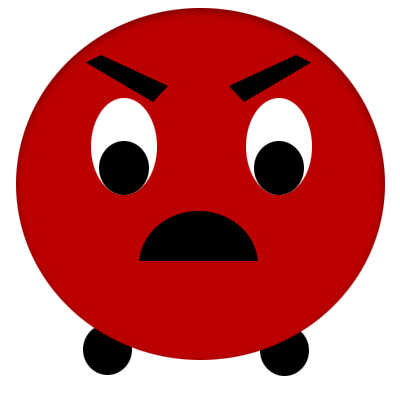
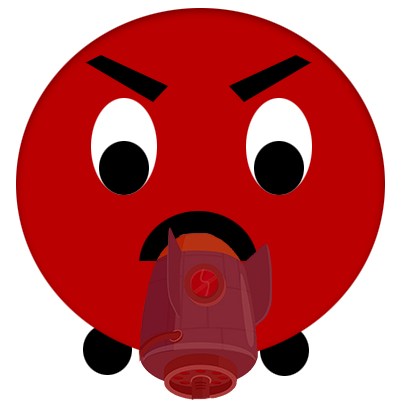
Aggiunta pistola enemy

Changed region(s): [[0.33, 0.57, 0.69, 1.0]]

diff --git a/src/project/igpe/classes/GraphicsGame.java b/src/project/igpe/classes/GraphicsGame.java
@@ -178,16 +178,16 @@ public class GraphicsGame extends StackPane{
 
 	}
 	public void dirPistol(int dir) {
-		if (Hero.getDirHero() == Hero.MOVE_LEFT)
+		if (dir == Hero.MOVE_LEFT)
 			canvas.getGraphicsContext2D().drawImage(GraphicHero.getImgPistol(), Hero.getX()-40, Hero.getY()-10, Hero.getSize()+20, Hero.getSize()+20);
-		if (Hero.getDirHero() == Hero.MOVE_RIGHT)
+		if (dir == Hero.MOVE_RIGHT)
 			canvas.getGraphicsContext2D().drawImage(GraphicHero.getImgPistol(), Hero.getX()+37, Hero.getY()-5, Hero.getSize()+20, Hero.getSize()+20);
-		if (Hero.getDirHero() == Hero.MOVE_UP)
+		if (dir == Hero.MOVE_UP)
 			canvas.getGraphicsContext2D().drawImage(GraphicHero.getImgPistol(), Hero.getX()-10, Hero.getY()-40, Hero.getSize()+20, Hero.getSize()+20);
-		if (Hero.getDirHero() == Hero.MOVE_DOWN)
+		if (dir == Hero.MOVE_DOWN)
 			canvas.getGraphicsContext2D().drawImage(GraphicHero.getImgPistol(), Hero.getX()-10, Hero.getY()+20, Hero.getSize()+20, Hero.getSize()+20);
 	}
-	
+
 	public void draw() {	
 		
 		canvas.getGraphicsContext2D().clearRect(0, 0, canvas.getWidth(), canvas.getHeight());	
@@ -257,9 +257,10 @@ public class GraphicsGame extends StackPane{
 						EnemySpawn = true;
 						System.out.println("Spawno nemico");
 					}
-					if (nemico.getLife()>0)
+					if (nemico.getLife()>0) {
 						canvas.getGraphicsContext2D().drawImage(GraphicEnemy.getImg(), nemico.getX(), nemico.getY(), Enemy.getSize()+20, Enemy.getSize()+20);
-					else {
+						
+					}else {
 
 						nemico.isAlive = false;
 					}
@@ -288,9 +289,9 @@ public class GraphicsGame extends StackPane{
 						EnemySpawn2 = true;
 						System.out.println("Spawno nemico2");
 					}
-					if (nemico2.getLife()>0)
+					if (nemico2.getLife()>0) {
 						canvas.getGraphicsContext2D().drawImage(GraphicEnemy.getImg(), nemico2.getX(), nemico2.getY(), Enemy.getSize()+20, Enemy.getSize()+20);
-					else {
+					}else {
 
 						nemico2.isAlive = false;
 					}

diff --git a/src/project/igpe/classes/Enemy2.java b/src/project/igpe/classes/Enemy2.java
@@ -52,6 +52,7 @@ public class Enemy2 {
 			dirEnemy = dir;
 			GraphicEnemy.setImgDir(dir);
 
+
 			if (!Movement.collisionWall(x, y) && !Movement.collisionDoor(x, y) && !Movement.collisionObstacle(x, y) && !Movement.collisionObstacleDmg(x, y)){
 
 				if (dir == MOVE_RIGHT && !stopMoving)
@@ -84,7 +85,9 @@ public class Enemy2 {
 			
 				service2.restart();
 				contadir++;	
-					
+				dirEnemy = dir;
+				GraphicEnemy.setImgDir(dir);
+
 				}
 		}
 		/*
@@ -114,7 +117,8 @@ public class Enemy2 {
 					while(nRandDir == direzione) {
 						nRandDir = (int) (4.0 * Math.random());				
 					}
-					
+					GraphicEnemy.setImgDir(direzione);
+
 					stopMoving = false;	
 					
 				return null;

diff --git a/src/project/igpe/classes/Enemy.java b/src/project/igpe/classes/Enemy.java
@@ -87,7 +87,8 @@ public class Enemy {
 			
 				service.restart();
 				contadir++;
-					
+				dirEnemy = dir;
+				GraphicEnemy.setImgDir(dir);
 					
 				}
 		}
@@ -106,7 +107,7 @@ public class Enemy {
 				@Override
 				protected Void call() throws Exception {
 
-					int value = 0;					
+					int value = 0;				
 					while(value <= 15) {
 						
 						value++;
@@ -119,7 +120,8 @@ public class Enemy {
 					while(nRandDir == direzione) {
 						nRandDir = (int) (4.0 * Math.random());				
 					}
-					
+					GraphicEnemy.setImgDir(direzione);
+
 					stopMoving = false;	
 					
 				return null;

diff --git a/src/project/igpe/classes/GraphicHero.java b/src/project/igpe/classes/GraphicHero.java
@@ -44,6 +44,8 @@ public class GraphicHero {
 			};
 		private static Image imgPistol = imagesPistol[3];
 		
+
+		
 		public static Image[] getImagesPistol() {
 			return imagesPistol;
 		}
@@ -52,6 +54,7 @@ public class GraphicHero {
 		public static Image getImgPistol() {
 			return imgPistol;
 		}
+		
 
 
 		public static Image getImg() {

diff --git a/src/project/igpe/classes/GraphicEnemy.java b/src/project/igpe/classes/GraphicEnemy.java
@@ -15,7 +15,8 @@ public class GraphicEnemy {
 			new Image(GraphicHero.class.getResourceAsStream(".."+File.separator+"images" + File.separator + "enemy" + File.separator + "enemyDown.png")) //ferma down
 		};
 	private static Image img = images[4];
-
+	
+	
 	public static Image getImg() {
 		return img;
 	}
